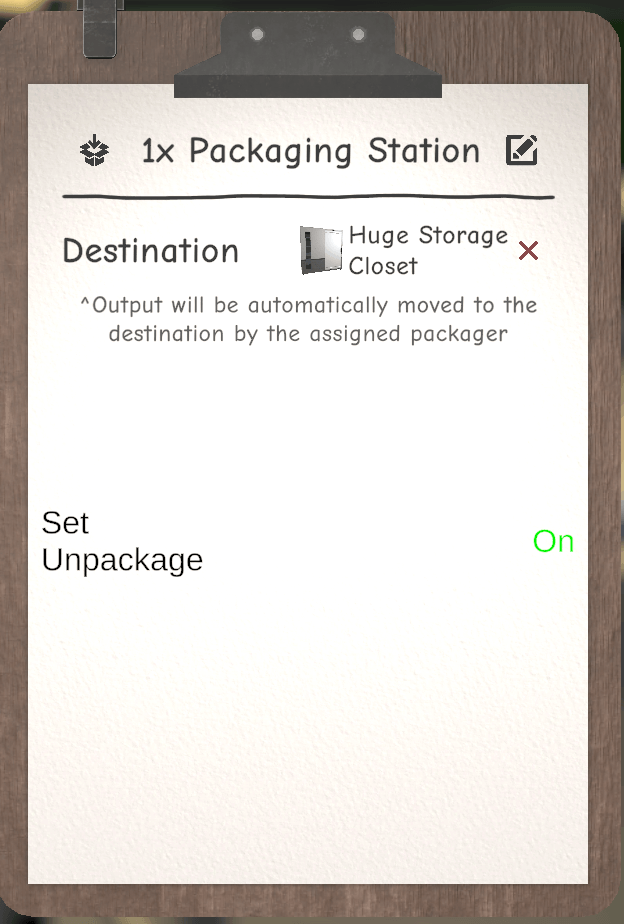
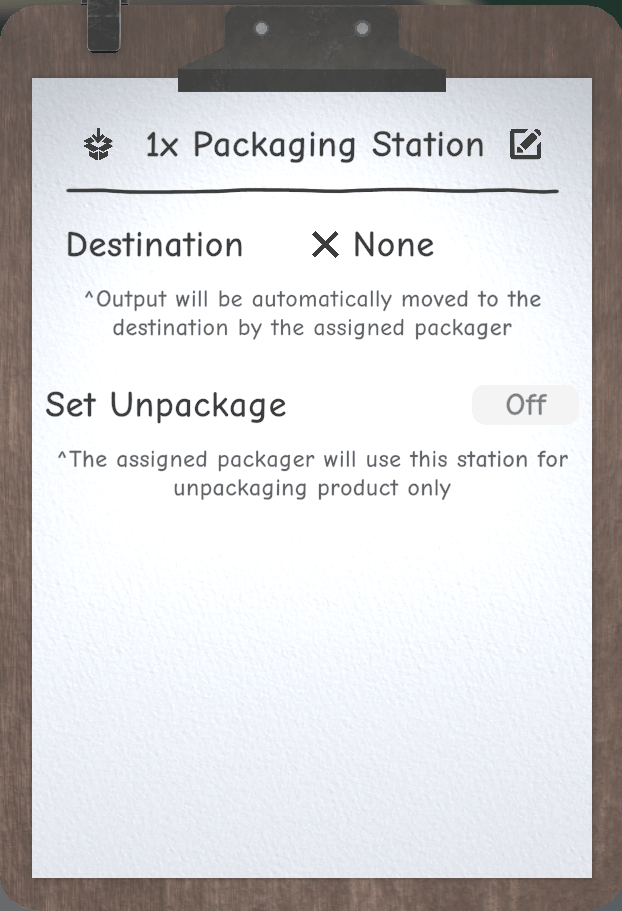
feat: unpackage clipboard ui improvements

Changed region(s): [[0.0, 0.0, 1.0, 1.0], [0.0916, 0.2459, 0.8859, 0.3688], [0.7942, 0.4303, 0.8859, 0.461]]

diff --git a/Patches/Unpackaging/PackagingStationConfigPatches.cs b/Patches/Unpackaging/PackagingStationConfigPatches.cs
@@ -17,6 +17,8 @@ using HarmonyLib;
 using MelonLoader;
 using S1API.Internal.Abstraction;
 using UnityEngine;
+using UnityEngine.UI;
+using Object = UnityEngine.Object;
 
 namespace EmployeeTweaks.Patches.Unpackaging;
 
@@ -101,7 +103,17 @@ public class PackagingStationConfigPanelPatch
             var rect = toggleObj.AddComponent<RectTransform>();
 
             var destUI = __instance.DestinationUI.GetComponent<RectTransform>();
+            var destLabel = __instance.DestinationUI.FieldLabel;
+            var selection = destUI?.Find("Selection");
+            var selectionImage = selection?.GetComponent<Image>();
+            if (destUI == null || selectionImage == null || destLabel == null)
+            {
+                MelonLogger.Error("Failed to find necessary UI components for unpackage toggle");
+                return;
+            }
+
             rect.sizeDelta = new Vector2(400f, 50f);
+            toggleObj.transform.localPosition = destUI.localPosition + new Vector3(0f, -120f, 0f);
 
             var titleText = new GameObject("Title");
             titleText.transform.SetParent(toggleObj.transform, false);
@@ -111,39 +123,62 @@ public class PackagingStationConfigPanelPatch
             titleRect.anchorMax = new Vector2(0f, 0.5f);
             titleRect.pivot = new Vector2(0f, 0.5f);
             titleRect.anchoredPosition = new Vector2(0f, 0f);
-            titleRect.sizeDelta = new Vector2(150f, 30f);
+            titleRect.sizeDelta = new Vector2(200f, 30f);
 
             var tmpro = titleText.AddComponent<TextMeshProUGUI>();
-            tmpro.fontSize = 24f;
-            tmpro.alignment = TextAlignmentOptions.Left;
+            tmpro.fontSize = destLabel.fontSize;
+            tmpro.alignment = destLabel.alignment;
             tmpro.text = "Set Unpackage";
-            tmpro.color = Color.black;
+            tmpro.color = destLabel.color;
+            tmpro.font = destLabel.font;
 
-            var valueText = new GameObject("Value");
-            valueText.transform.SetParent(toggleObj.transform, false);
+            var valueRoot = new GameObject("Value");
+            var rootRect = valueRoot.AddComponent<RectTransform>();
+            valueRoot.transform.SetParent(toggleObj.transform, false);
 
-            var valueRect = valueText.AddComponent<RectTransform>();
+            rootRect.anchorMin = new Vector2(1f, 0.5f);
+            rootRect.anchorMax = new Vector2(1f, 0.5f);
+            rootRect.pivot = new Vector2(1f, 0.5f);
+            rootRect.anchoredPosition = Vector2.zero;
+            rootRect.sizeDelta = new Vector2(80f, 30f);
+
+            var img = valueRoot.AddComponent<Image>();
+
+            img.sprite = selectionImage.sprite;
+            img.overrideSprite = selectionImage.overrideSprite;
+            img.type = selectionImage.type;
+            img.material = selectionImage.material;
+            img.color = selectionImage.color;
+            img.raycastTarget = selectionImage.raycastTarget;
+            img.preserveAspect = selectionImage.preserveAspect;
+            img.pixelsPerUnitMultiplier = selectionImage.pixelsPerUnitMultiplier;
+
+            var textGo = new GameObject("Text");
+            textGo.transform.SetParent(valueRoot.transform, false);
+
+            var valueRect = textGo.AddComponent<RectTransform>();
             valueRect.anchorMin = new Vector2(1f, 0.5f);
             valueRect.anchorMax = new Vector2(1f, 0.5f);
             valueRect.pivot = new Vector2(1f, 0.5f);
             valueRect.anchoredPosition = new Vector2(0f, 0f);
             valueRect.sizeDelta = new Vector2(80f, 30f);
 
-            var valueTmpro = valueText.AddComponent<TextMeshProUGUI>();
+            var valueTmpro = textGo.AddComponent<TextMeshProUGUI>();
             valueTmpro.fontSize = 24f;
-            valueTmpro.alignment = TextAlignmentOptions.Right;
+            valueTmpro.alignment = TextAlignmentOptions.Center;
+            valueTmpro.font = destLabel.font;
             UnpackageSave.Instance.TryGetValue(stationGuid, out var isUnpackage);
             valueTmpro.text = isUnpackage ? "On" : "Off";
             valueTmpro.color = isUnpackage ? Color.green : Color.gray;
 
-            var button = valueText.AddComponent<UnityEngine.UI.Button>();
+            var button = valueRoot.AddComponent<UnityEngine.UI.Button>();
 
             button.onClick.RemoveAllListeners();
             var s = "";
             EventHelper.AddListener(() =>
             {
                 s = s;
-                MelonLogger.Msg("Button clicked");
+                MelonLogger.Msg("Toggled unpackaging setting for station " + stationGuid);
                 var save = UnpackageSave.Instance;
                 if (save?.UnpackageStations == null) return;
                 if (!save.UnpackageStations.TryAdd(stationGuid, true))
@@ -153,16 +188,30 @@ public class PackagingStationConfigPanelPatch
                 valueTmpro.color = newValue ? Color.green : Color.gray;
             }, button.onClick);
 
+            button.image = img;
+            button.targetGraphic = img;
+
             var contentPanel = __instance.GetComponent<UIContentPanel>();
 
             if (contentPanel != null)
             {
-                var selectable = valueText.GetComponent<UISelectable>();
+                var selectable = valueRoot.GetComponent<UISelectable>();
                 if (selectable == null)
-                    selectable = valueText.AddComponent<UISelectable>();
+                    selectable = valueRoot.AddComponent<UISelectable>();
 
                 contentPanel.AddSelectable(selectable);
             }
+
+            var description = destUI.Find("Description");
+            if (description == null) return;
+            var unpackageDescription = Object.Instantiate(description.gameObject);
+            var rt = unpackageDescription.GetComponent<RectTransform>();
+            rt.SetParent(toggleObj.transform, false);
+
+            rt.localPosition = Vector3.zero;
+            rt.anchoredPosition += new Vector2(0f, -50f);
+            var descriptionText = unpackageDescription.GetComponent<TextMeshProUGUI>();
+            descriptionText.text = "^The assigned packager will use this station for unpackaging product only";
         }
         catch (System.Exception ex)
         {
